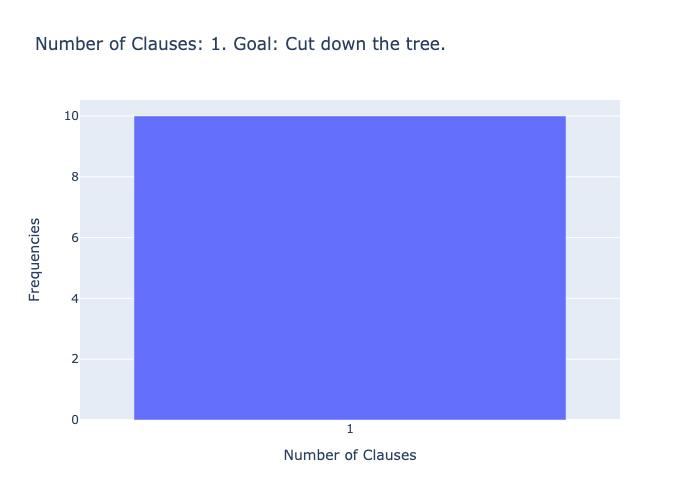
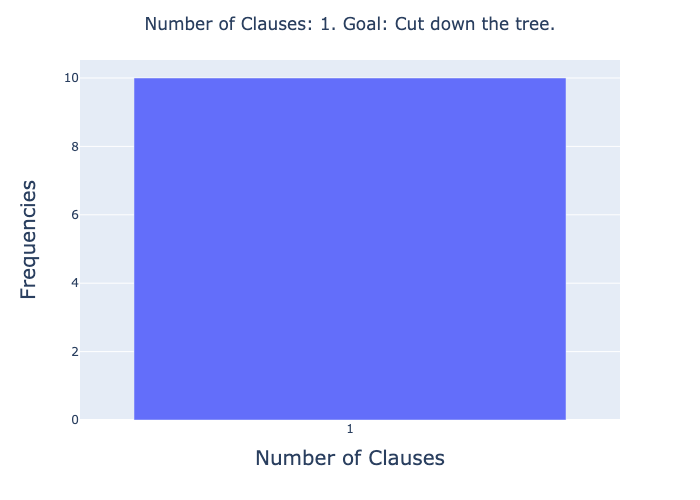
better formatting of plots

diff --git a/model.py b/model.py
@@ -8,6 +8,8 @@ import seaborn as sns
 import json
 import plotly.express as px
 import plotly.graph_objects as go
+import textwrap
+import cv2
 
 load_dotenv()
 
@@ -248,10 +250,16 @@ def plot_clause(goal, clause_freq, clause_num, isGoal=True):
     ys = [clause_freq[int(x)] if (int(x) in clause_freq.keys()) else 0 for x in xs] #frequencies
     df = pd.DataFrame({'Number of Clauses': xs, 'Frequencies': ys})
     if isGoal:
-        fig = px.bar(df, x='Number of Clauses', y='Frequencies', title=f'Number of Clauses: {clause_num}. Goal: {goal}')
+        g = textwrap.wrap(goal, width=50)
+        g = '<br>'.join(g)
+        fig = px.bar(df, x='Number of Clauses', y='Frequencies')
+        fig.update_layout(title_text=f'Number of Clauses: {clause_num}. Goal: {g}', title_x=0.5)
         goal = goal.replace(" ", "_")
     else:
-        fig = px.bar(df, x='Number of Clauses', y='Frequencies', title=f'Number of Clauses: {clause_num}. Aggregated')
+        fig = px.bar(df, x='Number of Clauses', y='Frequencies')
+        fig.update_layout(title_text=f'Number of Clauses: {clause_num}', title_x=0.5, font=dict(size=20))
+    fig.layout.xaxis.title.font.size = 20
+    fig.layout.yaxis.title.font.size = 20
     fig.write_image(f'clauses/plots{clause_num}/{goal}.png')
 
 
@@ -279,6 +287,14 @@ def plot_clauses(clause_file, clause_num):
     # plot aggregated results
     plot_clause("Aggregated", total_clause_len_freqs, clause_num, False)
     
-#plot_clauses('clauses/clause1.json', 1)
-#plot_clauses('clauses/clause2.json', 2)
-#plot_clauses('clauses/clause3.json', 3)
+# plot_clauses('clauses/clause1.json', 1)
+# plot_clauses('clauses/clause2.json', 2)
+# plot_clauses('clauses/clause3.json', 3)
+
+# concatenate images
+def horz_concat(ims, output_name):
+    imlist = [cv2.imread(i) for i in ims]
+    im = cv2.hconcat(imlist)
+    cv2.imwrite(output_name, im)
+
+# horz_concat(['clauses/plots1/Aggregated.png', 'clauses/plots2/Aggregated.png', 'clauses/plots3/Aggregated.png'], 'clauses/Aggregated.png')
